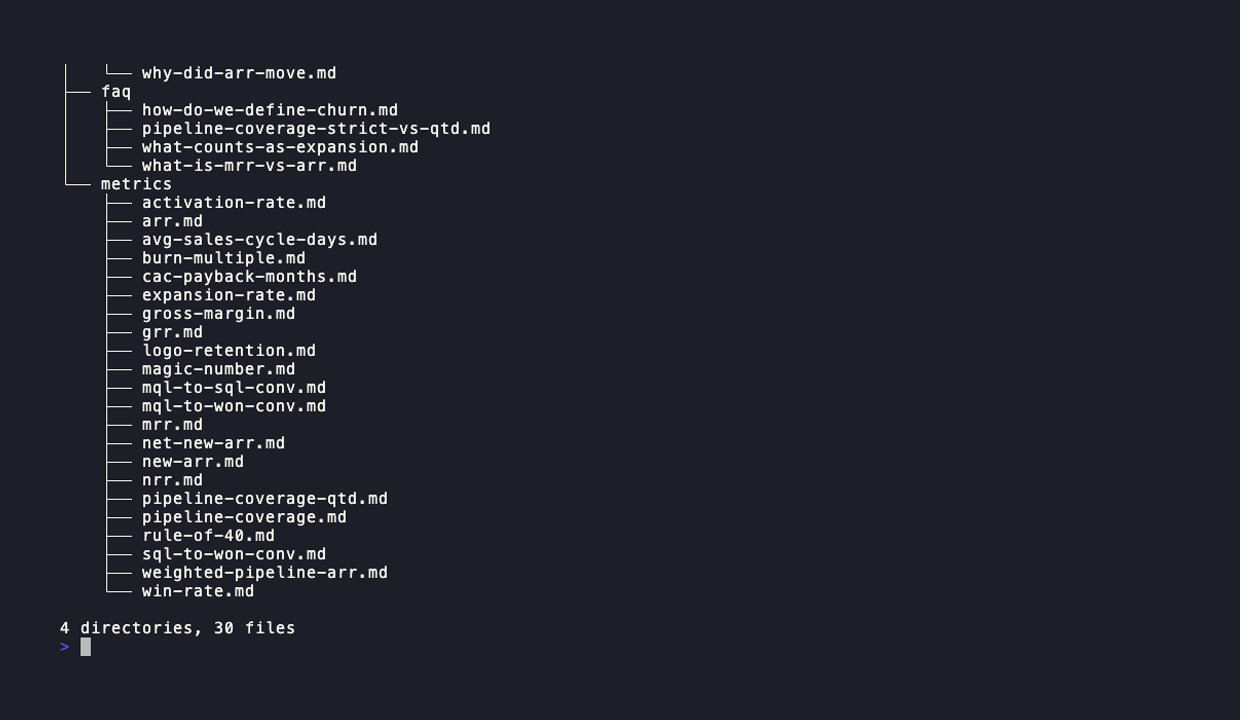
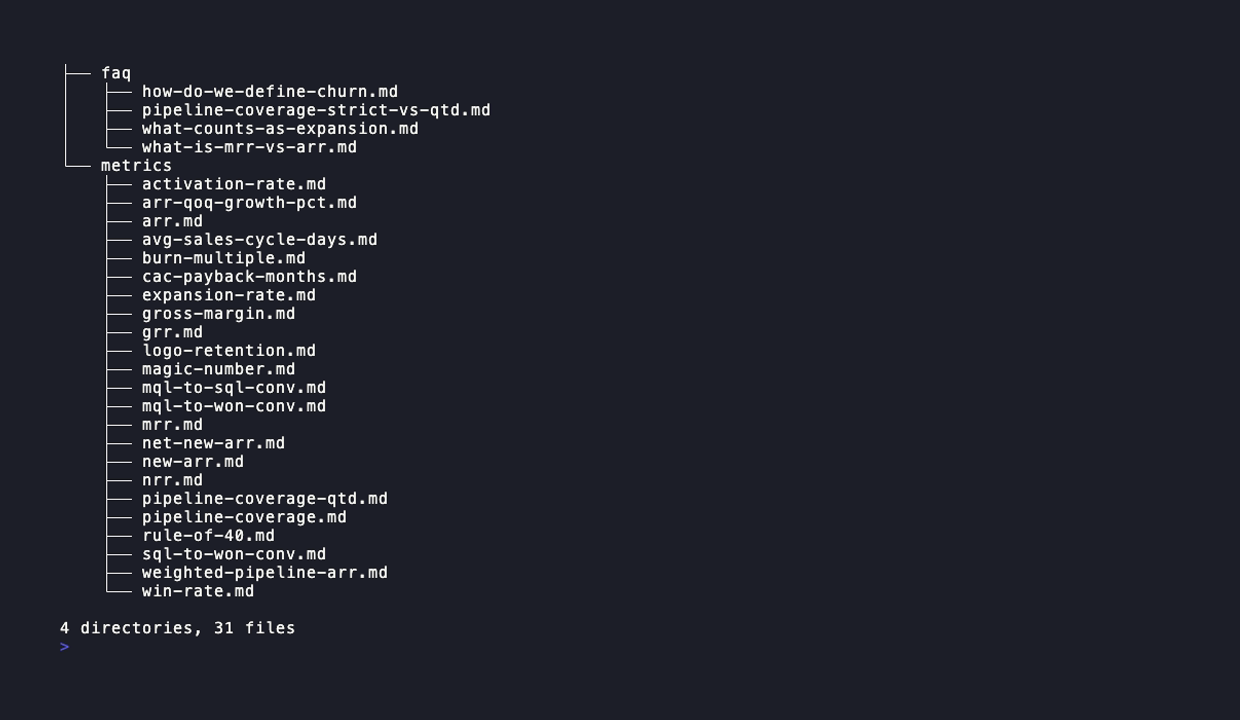
Day 6: Rule-of-40 growth term (stable) + CI gates flipped to blocking
- New mart fct_arr_qoq_growth: quarter-end total ARR + QoQ-annualized
  growth rate. Partial quarters filtered.
- New semantic model arr_growth with metric arr_qoq_annualized_growth_pct.
- rule_of_40 formula flipped from (operating_margin * 100) to
  ((growth + margin) * 100). Metric lifted draft -> stable.
- New skill arr-qoq-growth-pct.md (stable). rule-of-40.md rewritten,
  lifted draft -> stable.
- CI: pii_check + skill_freshness flipped from warn-only to blocking
  (both exit 0 locally today). rule_of_40 + growth metric added to
  smoke-query list.
- README + metric glossary: 22 metrics -> 23, 6 sms -> 7, rule_of_40
  tier flip documented, Day 6 status checkbox + Day 7+ deferred list.
- Demo GIF + skills-tree PNG re-rendered to show 23 metric files.

Local build: PASS=146 WARN=2 ERROR=0. All 3 CI-gate scripts exit 0.

Changed region(s): [[0.0613, 0.0917, 0.3984, 0.3056], [0.0613, 0.8861, 0.0919, 0.9167]]

diff --git a/README.md b/README.md
@@ -6,7 +6,7 @@ Governed, self-service GTM analytics stack. dbt-core + MetricFlow + DuckDB/Snowf
 
 ## What this is
 
-A reconstructed, runnable GTM warehouse: 22 public metrics across 6 semantic models, column-level PII tags that propagate from source YAML through the manifest and get enforced in CI, and a `skills/` markdown folder that lets an LLM assistant pick the right metric and emit a deterministic MetricFlow query instead of hallucinating SQL. The point is not another dbt project, it is the governance surface around it: tagged columns, singular reconciliation tests, a skill-to-metric crosswalk the build fails on, and a freshness check so stale metric docs cannot ship. Built solo against open sources (dbt-labs canonical layering, standard GTM formulas) as a sincere reconstruction of a published pattern.
+A reconstructed, runnable GTM warehouse: 23 public metrics across 7 semantic models, column-level PII tags that propagate from source YAML through the manifest and get enforced in CI, and a `skills/` markdown folder that lets an LLM assistant pick the right metric and emit a deterministic MetricFlow query instead of hallucinating SQL. The point is not another dbt project, it is the governance surface around it: tagged columns, singular reconciliation tests, a skill-to-metric crosswalk the build fails on, and a freshness check so stale metric docs cannot ship. Built solo against open sources (dbt-labs canonical layering, standard GTM formulas) as a sincere reconstruction of a published pattern.
 
 ## Run locally (90 seconds)
 
@@ -21,7 +21,7 @@ Requires Python 3.11+. No cloud credentials needed, DuckDB is the default target
 
 ## Architecture
 
-Seeds → staging (PII-tagged, source-tested) → intermediate (incremental MRR daily, account hierarchy reconciliation, cohort builder) → marts (dims + facts) → semantic layer (MetricFlow YAML) → `skills/` markdown consumed by an LLM router. See [`docs/architecture.md`](docs/architecture.md) for the Mermaid diagram, [`docs/metric-glossary.md`](docs/metric-glossary.md) for all 22 metrics with formulas and confidence tiers, [`docs/skills-pattern.md`](docs/skills-pattern.md) for the skills folder convention, and [`docs/example-trace.md`](docs/example-trace.md) for a Slack-shaped user question walked end-to-end: skill selection → `mf query` → answer.
+Seeds → staging (PII-tagged, source-tested) → intermediate (incremental MRR daily, account hierarchy reconciliation, cohort builder) → marts (dims + facts) → semantic layer (MetricFlow YAML) → `skills/` markdown consumed by an LLM router. See [`docs/architecture.md`](docs/architecture.md) for the Mermaid diagram, [`docs/metric-glossary.md`](docs/metric-glossary.md) for all 23 metrics with formulas and confidence tiers, [`docs/skills-pattern.md`](docs/skills-pattern.md) for the skills folder convention, and [`docs/example-trace.md`](docs/example-trace.md) for a Slack-shaped user question walked end-to-end: skill selection → `mf query` → answer.
 
 ## What's inside
 
@@ -30,21 +30,21 @@ Seeds → staging (PII-tagged, source-tested) → intermediate (incremental MRR 
 | `seeds/gtm/` | 8 realistic GTM seeds (SFDC + Stripe + product events + quotas + financials) |
 | `models/staging/` | 6 staging models, PII tags, source tests |
 | `models/intermediate/` | 7 ints incl. `int_subscription_mrr_daily` (incremental + merge), `int_account_arr_monthly`, `int_account_cohort`, `int_account_hierarchy_reconciliation` (hierarchy-detector adversarial mod) |
-| `models/marts/core/` | 5 dims + 6 facts incl. `fct_mrr_movement`, `fct_cohort_arr_monthly`, `fct_opportunity`, `fct_funnel_event`, `fct_financials`, `fct_quota` |
-| `models/semantic/` | 6 semantic models, 22 public metrics + ~30 supporting |
-| `skills/` | 22 metric files + 3 debug runbooks + 4 FAQs, each with frontmatter |
+| `models/marts/core/` | 5 dims + 7 facts incl. `fct_mrr_movement`, `fct_cohort_arr_monthly`, `fct_arr_qoq_growth`, `fct_opportunity`, `fct_funnel_event`, `fct_financials`, `fct_quota` |
+| `models/semantic/` | 7 semantic models, 23 public metrics + ~30 supporting |
+| `skills/` | 23 metric files + 3 debug runbooks + 4 FAQs, each with frontmatter |
 | `scripts/` | `pii_check.py` (manifest walker), `skill_metric_crosswalk.py`, `skill_freshness.py` |
 | `tests/singular/` | account-hierarchy reconciliation, subscription-period overlap, MRR-movement reconciliation, ARR↔billed reconciliation (adversarial-pass mod), NRR cohort denom nonzero |
 
 ## Metric domains
 
-- **Revenue** (6): `arr`, `mrr`, `new_arr`, `net_new_arr`, `grr`, `nrr`
+- **Revenue** (7): `arr`, `mrr`, `new_arr`, `net_new_arr`, `grr`, `nrr`, `arr_qoq_annualized_growth_pct`
 - **Pipeline** (5): `pipeline_coverage`, `pipeline_coverage_qtd`, `win_rate`, `avg_sales_cycle_days`, `weighted_pipeline_arr`
 - **Funnel** (4): `mql_to_sql_conv`, `sql_to_won_conv`, `mql_to_won_conv`, `activation_rate`
 - **Retention** (2): `expansion_rate`, `logo_retention`
 - **Efficiency** (5): `cac_payback_months`, `magic_number`, `burn_multiple`, `gross_margin`, `rule_of_40`
 
-Full table with grain, formula, dimensions, and `confidence_tier` in [`docs/metric-glossary.md`](docs/metric-glossary.md). Honest tiers: `cac_payback_months` and `rule_of_40` ship as `draft` (blended CAC not segment-weighted; Rule-of-40 operating-margin component only). The 3 funnel conversions ship as `evolving` (same-period proxy aggregation, true per-user cohort tracking is Day 5+).
+Full table with grain, formula, dimensions, and `confidence_tier` in [`docs/metric-glossary.md`](docs/metric-glossary.md). Honest tiers after Day 6: `cac_payback_months` and `rule_of_40` both lifted to `stable` (segment-weighted CAC denominator with real new_arr by segment; Rule-of-40 now carries both growth + margin terms). The 3 funnel conversions remain `evolving` (same-period proxy aggregation, true per-user cohort tracking is Day 7+).
 
 ## Walkthrough
 
@@ -58,7 +58,7 @@ Static captures (same source, individual frames):
 `mf query --metrics arr --group-by metric_time__month` returning ARR by month from the live DuckDB warehouse.
 
 ![skills tree](docs/img/skills-tree.png)
-`tree skills/` showing the 22 metric files + 3 debug runbooks + 4 FAQs under their standard categories.
+`tree skills/` showing the 23 metric files + 3 debug runbooks + 4 FAQs under their standard categories.
 
 CI status: the green badge at the top of this README is live from GitHub Actions on the `main` branch.
 
@@ -69,7 +69,8 @@ CI status: the green badge at the top of this README is live from GitHub Actions
 - [x] Day 3, Remaining 15 metrics + skills folder + CI crosswalk
 - [x] Day 4, PII enforcement + 4 singular tests + skill freshness + docs
 - [x] Day 5, segment-weighted CAC payback (stable), demo GIF via vhs, screenshots, repo public
-- [ ] Day 6+, resume + application link, Rule-of-40 growth term, SCD2 opportunity snapshot
+- [x] Day 6, Rule-of-40 growth term (stable), pii_check + skill_freshness CI gates flipped to blocking
+- [ ] Day 7+, resume + application link, SCD2 opportunity snapshot, YoY growth once >= 5 quarters of history
 
 ## Attribution
 

diff --git a/BUILD-LOG.md b/BUILD-LOG.md
@@ -1,5 +1,34 @@
 # BUILD-LOG
 
+## Day 6, 2026-10-07
+
+**Shipped:**
+- `rule_of_40` **lifted from `draft` to `stable`**. The Day 3 version carried only the operating-margin term (`operating_margin_pct * 100`) which under-reported growing-but-unprofitable SaaS by 50-150 pts. Day 6 adds the growth-rate term so the metric is now Bessemer's canonical `(growth + margin)`.
+  - New mart `fct_arr_qoq_growth.sql`: quarter-end total ARR (sum of per-account ARR at the last observed month of the quarter) + QoQ-annualized growth rate `(1 + qoq)^4 - 1`. Partial quarters (where the third month has not been observed) are filtered out via `qe.quarter_end_month >= quarter_start + 2 months`.
+  - New semantic model `models/semantic/arr_growth.yml` with measure `arr_qoq_annualized_growth_pct_avg` and simple metric `arr_qoq_annualized_growth_pct` wired to `fct_arr_qoq_growth`.
+  - `rule_of_40` formula rewrite: `(arr_qoq_annualized_growth_pct + operating_margin_pct_metric) * 100.0`. Metric label flipped from "Rule of 40 (partial, operating margin only)" to "Rule of 40 (growth + margin)".
+- Growth-rate convention: picked **QoQ-annualized**, not YoY. Reason: the demo seed carries 4 complete quarters, YoY needs 5. Production deployments with >= 5 quarters of warehouse history should flip to YoY for cross-company benchmarking. Documented in `skills/metrics/arr-qoq-growth-pct.md` (new skill file) and `skills/metrics/rule-of-40.md` (gotcha #1).
+- New skill file `skills/metrics/arr-qoq-growth-pct.md`, `confidence_tier: stable`. Covers formula, YoY-vs-QoQ-annualized tradeoff, partial-quarter filter, hypergrowth distortion caveat.
+- `rule_of_40` skill rewritten: `confidence_tier` **flipped `draft` -> `stable`**. Gotchas now cover growth-rate convention, operating-margin convention (GAAP vs FCF), first-quarter null, hypergrowth distortion. Related skills now include `arr-qoq-growth-pct`.
+- CI gates **flipped from warn-only to blocking**:
+  - `pii_check` (manifest walk): `continue-on-error: true` removed. Current state verified clean (3 INFO propagation suggestions, 0 direct_identifier leaks, 0 semantic leaks, exit 0).
+  - `skill_freshness`: `continue-on-error: true` removed. Current state verified clean (0 stale files, 30 scanned, 90-day threshold, exit 0).
+  - Repo now enforces the PII + freshness policy its own skill files preach.
+- Two new smoke queries added to CI: `rule_of_40 --group-by metric_time__quarter` and `arr_qoq_annualized_growth_pct --group-by metric_time__quarter`.
+
+**Verified local build:** `dbt build` -> **PASS=146 WARN=2 ERROR=0** (2 WARNs are the pre-existing `severity: warn` ARR-vs-billed drift + 3 account-hierarchy orphans from the demo seed, both expected). `mf validate-configs` zero errors. All 3 CI-gate Python scripts exit 0.
+
+**Known Day-5-era bug caught during Day 6:** The Day 5 CSV schema change (segment_margins.csv dropped the `new_arr_cents` column) only works on fresh warehouse state. Local incremental re-runs against the pre-Day-5 5-column warehouse table fail with a DuckDB CSV sniffer error. CI greens because every run creates fresh state. Workaround for anyone running locally: `dbt seed --select segment_margins --full-refresh --profiles-dir .` once. Not fixing in CI since CI is already clean.
+
+**Deferred to Day 7+:**
+- Flip `rule_of_40` growth term from QoQ-annualized to YoY once >= 5 quarters of warehouse history exist.
+- Propagate `meta.pii` on `dim_user.user_id`, `dim_customer.customer_id`, `dim_account.account_id` to clear the 3 INFO lines from `pii_check` (they're informational, not failures, so this is cosmetic).
+- dbt snapshot on `stg_sfdc__opportunities` -> SCD2 + `fct_opportunity_stage_transition` fact.
+- Per-segment S&M allocation to enable per-segment CAC payback.
+- Link the repo on Jay's resume + applications.
+
+---
+
 ## Day 5, 2026-10-07
 
 **Shipped:**

diff --git a/skills/metrics/rule-of-40.md b/skills/metrics/rule-of-40.md
@@ -2,12 +2,12 @@
 metric_id: rule_of_40
 category: metric
 owner: gtm-analytics@example.com
-confidence_tier: draft
+confidence_tier: stable
 dimensions: [quarter]
 pii_sensitive: false
-last_reviewed_at: 2026-10-06
+last_reviewed_at: 2026-10-07
 update_cadence: quarterly
-related_skills: [magic-number, burn-multiple, gross-margin]
+related_skills: [magic-number, burn-multiple, gross-margin, arr-qoq-growth-pct]
 ---
 
 # Rule of 40, SaaS Health Shorthand
@@ -16,22 +16,28 @@ related_skills: [magic-number, burn-multiple, gross-margin]
 The classic SaaS health shorthand: either growing fast OR profitable OR some mix of both totaling at least 40. Popularized by Bessemer and Brad Feld as a single-number sanity check that balances growth against efficiency.
 
 ## Formula
-`growth_rate_pct + operating_margin_pct`
-Should sum to ≥ 40 for a "healthy" SaaS. **Day 3 implementation ships `operating_margin_pct × 100` only**, the growth-rate term is pending.
+```
+rule_of_40 = (arr_growth_pct + operating_margin_pct) * 100
+```
+
+Should sum to >= 40 for a "healthy" SaaS. This repo wires `arr_growth_pct = arr_qoq_annualized_growth_pct` from `fct_arr_qoq_growth` and `operating_margin_pct = operating_margin_pct_metric` from `fct_financials`. Both terms are percentages (not percentage points), hence the `* 100` at the end.
 
 ## Dimensions you can slice by
-- `metric_time__quarter`, the standard reporting grain
+- `metric_time__quarter`, the only grain
 
 ## How to query
 `mf query --metrics rule_of_40 --group-by metric_time__quarter`
 
 ## Gotchas
-1. **Day 3 ships operating-margin only.** The growth-rate component requires period-over-period ARR computed as a metric (needs a `fct_arr_qoq_growth` mart that isn't built). Day 4+ fix. Until then, this metric substantially under-reports a growing-but-unprofitable company, e.g., an early-stage SaaS at 90% growth / -60% operating margin should score 30, we'd currently report -60. Do not use this for external benchmarking yet.
-2. **Operating margin convention varies.** We use GAAP-ish operating margin, not FCF margin, adjust if your reports use free cash flow. Bessemer's original write-up permits either; stay consistent within a comparison set.
+1. **Growth-rate convention.** Bessemer's canonical definition uses YoY ARR growth; this repo uses QoQ-annualized because the demo seed only carries 4 complete quarters (YoY would be null everywhere). See `arr-qoq-growth-pct.md` for the full tradeoff. For cross-company benchmarking in production, flip to YoY once >= 5 quarters of history exist.
+2. **Operating margin convention varies.** We use GAAP-ish operating margin from `fct_financials.operating_margin_pct`, not FCF margin. Bessemer's original write-up permits either; stay consistent within a comparison set.
+3. **First quarter is null.** Growth term requires one prior quarter of ARR, so the first quarter of any warehouse history returns null `rule_of_40`.
+4. **Hypergrowth distortion.** For companies 2x-ing ARR per quarter, the QoQ-annualized growth term explodes (1500%+ scores). The metric is designed for mature SaaS (ARR > $20M, growing 50-150%/yr); interpret with caution in the hypergrowth stage.
 
 ## When NOT to use rule_of_40
-- Growth signal alone → ARR trajectory plus `magic_number`
-- Profitability alone → `gross_margin` plus operating_margin_pct
+- Growth signal alone, use `arr_qoq_annualized_growth_pct` or ARR trajectory + `magic_number`
+- Profitability alone, use `gross_margin` + operating margin
+- Cash runway questions, use `burn_multiple`
 
 ## Owner, update cadence
 Owned by GTM Analytics. Reviewed quarterly.

diff --git a/docs/metric-glossary.md b/docs/metric-glossary.md
@@ -1,6 +1,6 @@
 # Metric Glossary
 
-The 22 public metrics in this project, grouped by domain. Formulas are
+The 23 public metrics in this project, grouped by domain. Formulas are
 sketches, the authoritative definitions live in `models/semantic/*.yml`
 and the user-facing explanations live in `skills/metrics/<id>.md`.
 
@@ -25,6 +25,7 @@ Confidence tiers reflect the labels on the skill files themselves:
 | `net_new_arr` | `new_arr + expansion_arr + contraction_arr + churn_arr` | `mrr_movement` | account × month | movement_type | stable | `skills/metrics/net-new-arr.md` |
 | `grr` | `cohort_retained_arr / cohort_t0_arr` (retained = min(curr, t0) per account) | `cohort_arr` | cohort_month × reporting_month | cohort_month | stable | `skills/metrics/grr.md` |
 | `nrr` | `cohort_now_arr / cohort_t0_arr` (cohort-static) | `cohort_arr` | cohort_month × reporting_month | cohort_month, segment, region, plan | stable | `skills/metrics/nrr.md` |
+| `arr_qoq_annualized_growth_pct` | `(1 + (ARR_q − ARR_{q-1}) / ARR_{q-1})^4 − 1` (QoQ-annualized; see skill for the YoY tradeoff) | `arr_growth` | quarter | metric_time__quarter | stable | `skills/metrics/arr-qoq-growth-pct.md` |
 
 ## Pipeline
 
@@ -56,13 +57,13 @@ Confidence tiers reflect the labels on the skill files themselves:
 
 | Metric | Formula sketch | Semantic model | Grain | Key dimensions | Confidence | Skill file |
 |---|---|---|---|---|---|---|
-| `cac_payback_months` | `12 × sm_spend / (new_arr × gross_margin_pct)` (blended, not segment-weighted) | `financials` + `mrr_movement` | quarter |, | draft | `skills/metrics/cac-payback-months.md` |
+| `cac_payback_months` | `12 × sm_spend / sum(new_arr_s × gm_s × mix_s across segments)` (segment-weighted, real new_arr by segment) | `financials` + `mrr_movement` + `segment_margins` seed | quarter |, | stable | `skills/metrics/cac-payback-months.md` |
 | `magic_number` | `net_new_arr × 4 / sm_spend` (same-period; textbook lags S&M by one quarter) | `financials` + `mrr_movement` | quarter |, | evolving | `skills/metrics/magic-number.md` |
 | `burn_multiple` | `net_burn / net_new_arr` | `financials` + `mrr_movement` | quarter |, | evolving | `skills/metrics/burn-multiple.md` |
 | `gross_margin` | `(revenue − cogs) / revenue` | `financials` | quarter |, | stable | `skills/metrics/gross-margin.md` |
-| `rule_of_40` | `operating_margin_pct × 100` (missing the ARR-growth term) | `financials` | quarter |, | draft | `skills/metrics/rule-of-40.md` |
+| `rule_of_40` | `(arr_qoq_annualized_growth_pct + operating_margin_pct) × 100` (growth + margin) | `financials` + `arr_growth` | quarter |, | stable | `skills/metrics/rule-of-40.md` |
 
-## Note on the 22 public / ~30 supporting split
+## Note on the 23 public / ~30 supporting split
 
 The semantic layer defines roughly 50 metrics. Only 22 of them get skill
 files and show up in this glossary. The rest are **supporting metrics** , 

diff --git a/skills/metrics/arr-qoq-growth-pct.md b/skills/metrics/arr-qoq-growth-pct.md
@@ -1,0 +1,42 @@
+---
+metric_id: arr_qoq_annualized_growth_pct
+category: metric
+owner: gtm-analytics@example.com
+confidence_tier: stable
+dimensions: [quarter]
+pii_sensitive: false
+last_reviewed_at: 2026-10-07
+update_cadence: quarterly
+related_skills: [rule-of-40, arr, net-new-arr]
+---
+
+# ARR QoQ-Annualized Growth
+
+## One-liner
+ARR growth rate at quarter-end, quarter-over-quarter, annualized. Powers the growth-rate term of `rule_of_40`. For a company at $10M ARR growing to $12M in one quarter, this reports 107% (annualized), not 20% (quarterly).
+
+## Formula
+```
+arr_qoq_annualized_growth_pct = (1 + (ARR_q - ARR_{q-1}) / ARR_{q-1})^4 - 1
+```
+
+Where `ARR_q` is total ARR at the last observed month of quarter `q`, summed across all accounts. Implemented in `fct_arr_qoq_growth` (quarter-end ARR + lag(1) over quarter_start). Partial quarters (where the third month has not yet been observed) are excluded.
+
+## Dimensions you can slice by
+- `metric_time__quarter`, the only grain for this metric
+
+## How to query
+`mf query --metrics arr_qoq_annualized_growth_pct --group-by metric_time__quarter`
+
+## Gotchas
+1. **YoY vs QoQ-annualized is a convention choice.** Bessemer's canonical Rule-of-40 definition uses trailing-12-month ARR growth (YoY). QoQ-annualized is accepted for high-growth stage companies where YoY is too lagged (a $5M → $20M jump in 3 quarters reads differently YoY vs QoQ-ann). This repo uses QoQ-annualized because the demo seed has only 4 complete quarters; a 5-quarter history is needed before YoY produces any non-null value. Production deployments should add a parallel `arr_yoy_growth_pct` once >= 5 quarters of warehouse history is available and switch `rule_of_40` to YoY for cross-company benchmarking.
+2. **Partial quarters are excluded.** `fct_arr_qoq_growth` filters to quarters where the third month has been observed. The first incomplete quarter of the demo seed (2026-10) is excluded from output.
+3. **Hypergrowth distortion.** QoQ-annualized compounds a single quarter's growth four times. A one-time 2x jump (e.g., closing a major enterprise deal) reads as 1500% annualized. For companies past the hypergrowth phase (ARR > $100M), prefer YoY to smooth lumpy quarters.
+
+## When NOT to use arr_qoq_annualized_growth_pct
+- Cross-company benchmarking at scale, use YoY
+- Monthly cadence reporting, this metric is quarterly-only by construction
+- Attributing growth to new vs expansion ARR, use `new_arr` + `expansion_rate` separately
+
+## Owner, update cadence
+Owned by GTM Analytics. Reviewed quarterly.
